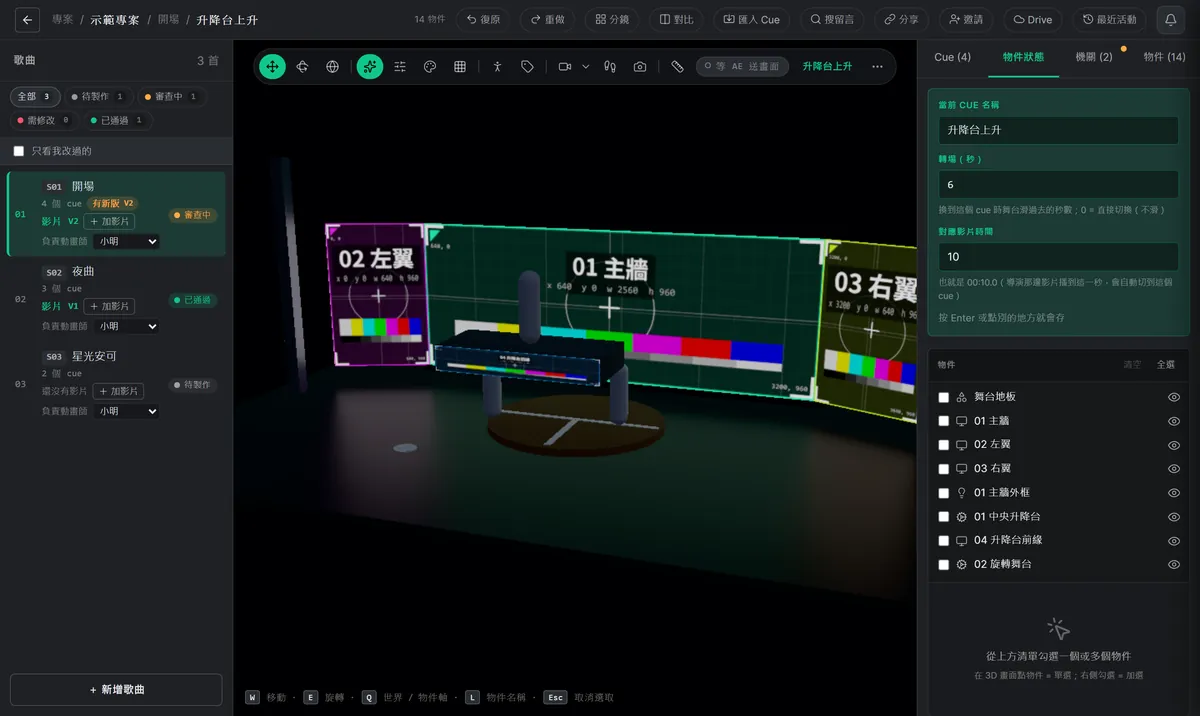
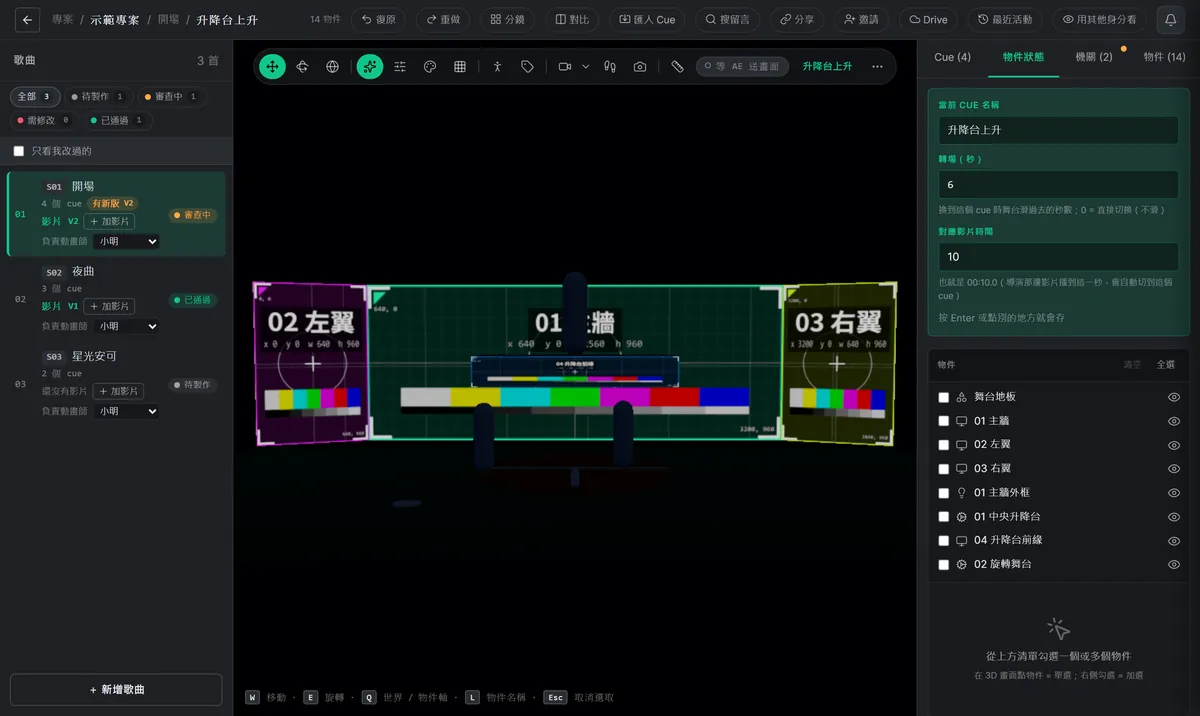
docs(使用說明): 製作「建立專案」改寫成新增專案的六個步驟（名稱、3D 模型、LED 畫布大小、歌單、邀請人、完成），加「每一步都可以先跳過」、中途離開和「繼續設定」的說明，4 張新截圖；重拍過時的圖：cue 清單（按鈕已經收進每一列最右邊的「⋯」，紅框改成 ⋯ 選單裡的存成常用擺位、重置）、編輯頁全景（上方多了「用其他身分看」，復原 / 重做的紅框跟著移）、舊的新增專案視窗（寫的是不存在的「模型」分頁）

Changed region(s): [[0.185, 0.2765, 0.7708, 0.7989], [0.3083, 0.0, 0.9558, 0.0307]]

diff --git a/web/src/pages/helpFigures.ts b/web/src/pages/helpFigures.ts
@@ -69,12 +69,43 @@ export const FIGS = {
     ],
   }),
   newProject: fig({
-    src: '/help/producer/new-project.webp', w: 960, h: 1204, width: 420,
-    alt: '新增專案對話框',
-    caption: '① 專案名稱（一定要填）② 按「建立專案」',
+    src: '/help/producer/new-project.webp', w: 1000, h: 1026, width: 440,
+    alt: '新增專案第 1 步：專案名稱、Show、描述',
+    caption: '第 1 步：① 專案名稱（一定要填）② 按「建立專案」，專案就建好了 ③ 最上面看得到在第幾步',
     boxes: [
-      { x: 4.17, y: 18.09, w: 91.67, h: 8.01, n: 1 },
-      { x: 76.25, y: 89.13, w: 19.58, h: 7.55, n: 2 },
+      { x: 2.63, y: 25.68, w: 94.74, h: 6.19, n: 1 },
+      { x: 82.63, y: 93.08, w: 15, h: 5.64, n: 2 },
+      { x: 2.37, y: 9.1, w: 95.26, h: 5.38, n: 3, dashed: true },
+    ],
+  }),
+  newProjectModel: fig({
+    src: '/help/producer/new-project-model.webp', w: 1000, h: 1026, width: 440,
+    alt: '新增專案第 2 步：模型匯入後寫找到幾片 LED、幾個機關',
+    caption: '第 2 步：① 模型裡找到什麼 ② 物件怎麼命名（開新分頁看說明）③ 下一步',
+    boxes: [
+      { x: 4.74, y: 29.01, w: 90.53, h: 3.72, n: 1 },
+      { x: 2.63, y: 22.67, w: 30.79, h: 3.27, n: 2, dashed: true },
+      { x: 84.34, y: 92.98, w: 13.29, h: 5.64, n: 3 },
+    ],
+  }),
+  newProjectSongs: fig({
+    src: '/help/producer/new-project-songs.webp', w: 1000, h: 1026, width: 440,
+    alt: '新增專案第 4 步：貼上歌單，下面列出每首歌的歌曲代號和歌名',
+    caption: '第 4 步：① 一行一首貼進來 ② 歌曲代號照順序排好，可以改 ③ 按「加入 3 首歌」',
+    boxes: [
+      { x: 2.63, y: 28.53, w: 94.74, h: 23.68, n: 1 },
+      { x: 2.63, y: 56.57, w: 12.89, h: 16.83, n: 2 },
+      { x: 83.3, y: 92.98, w: 14.34, h: 5.64, n: 3 },
+    ],
+  }),
+  newProjectDone: fig({
+    src: '/help/producer/new-project-done.webp', w: 1000, h: 1026, width: 440,
+    alt: '新增專案最後一步：做好了什麼、還沒做什麼',
+    caption: '完成：① 還沒做的可以回去設定 ② 進入編輯頁 ③ 建立分享連結、用其他身分看',
+    boxes: [
+      { x: 84.61, y: 57.6, w: 10.79, h: 4.97, n: 1 },
+      { x: 2.63, y: 66.05, w: 17.89, h: 6.54, n: 2 },
+      { x: 20.79, y: 66.4, w: 37.63, h: 5.83, n: 3 },
     ],
   }),
   projectCardMenu: fig({
@@ -90,7 +121,7 @@ export const FIGS = {
       { x: 0, y: 5.58, w: 19.44, h: 94.42, n: 1, dashed: true },
       { x: 20.96, y: 6.51, w: 53.9, h: 5.58, n: 2 },
       { x: 76.39, y: 5.58, w: 23.61, h: 94.42, n: 3, dashed: true },
-      { x: 37.76, y: 0.64, w: 10.34, h: 4.19, n: 4 },
+      { x: 29.06, y: 0.64, w: 10.33, h: 4.19, n: 4 },
     ],
   }),
   uploadModel: fig({
@@ -147,13 +178,14 @@ export const FIGS = {
     boxes: [{ x: 2.5, y: 52.86, w: 95, h: 7.26, n: 1 }],
   }),
   cueList: fig({
-    src: '/help/producer/cue-list.webp', w: 680, h: 706, width: 340,
-    alt: 'Cue 分頁：cue 清單，滑鼠移到 cue 上出現的按鈕',
-    caption: '① 轉場秒數（0 寫「直接切換」）② 存成常用擺位 ③ 重置這個 cue',
+    src: '/help/producer/cue-list.webp', w: 680, h: 960, width: 340,
+    alt: 'Cue 分頁：cue 清單，第 2 個 cue 最右邊的「⋯」打開的選單',
+    caption: '① 轉場秒數（0 寫「直接切換」）② 每個 cue 最右邊的「⋯」③ 存成常用擺位 ④ 重置這個 cue',
     boxes: [
-      { x: 14.41, y: 39.42, w: 29.71, h: 5.8, n: 1 },
-      { x: 67.06, y: 35.6, w: 7.65, h: 7.36, n: 2 },
-      { x: 74.12, y: 35.6, w: 7.65, h: 7.36, n: 3 },
+      { x: 14.41, y: 29.01, w: 16.5, h: 4.27, n: 1 },
+      { x: 87.65, y: 25.78, w: 8.82, h: 6.25, n: 2 },
+      { x: 17.06, y: 61.04, w: 77.05, h: 8.75, n: 3 },
+      { x: 17.06, y: 77.71, w: 77.05, h: 8.75, n: 4 },
     ],
   }),
   cueAdd: fig({

diff --git a/web/src/pages/Help.tsx b/web/src/pages/Help.tsx
@@ -972,15 +972,28 @@ function ProducerChapter() {
 
       <Section id={A.prodProject} title="建立專案">
         <F k="adminOverview" />
+        <p>左邊選「<Ui>專案</Ui>」（專案總覽），按右上角「<Ui>＋ 新增專案</Ui>」。接下來會一步一步帶你把專案準備好，最上面看得到在第幾步：</p>
         <ol className="help-steps">
-          <li>左邊選「<Ui>專案</Ui>」（專案總覽），按右上角「<Ui>＋ 新增專案</Ui>」。</li>
-          <li>填「<Ui>專案名稱</Ui>」（例：魅影巡演 2026），需要的話寫一句描述。同一場巡迴的不同場次可以選同一個「<Ui>Show</Ui>」。</li>
-          <li>按「<Ui>建立專案</Ui>」，直接進到這個專案的編輯頁。</li>
+          <li><strong>名稱</strong>：填「<Ui>專案名稱</Ui>」（例：魅影巡演 2026），同一場巡迴的不同場次可以選同一個「<Ui>Show</Ui>」，需要的話寫一句描述 → 按「<Ui>建立專案</Ui>」。按下去專案就建好了。</li>
+          <li><strong>3D 模型</strong>：按「<Ui>上傳 3D 模型</Ui>」（跟編輯頁的上傳視窗一樣，看 <Go to={A.prodModel}>匯入 3D 模型</Go>）。匯入後寫「找到 4 片 LED、2 個機關…」；名稱沒對到命名規則的會提醒你（看 <Go to={A.prodNaming}>物件怎麼命名</Go>）。</li>
+          <li><strong>LED 畫布大小</strong>：AE 合成的寬 × 高（像素），先放常用的 3840 × 2160。有模型的話下面會畫出每塊 LED 在畫布上的位置（跟 <Go to={A.prodLedCanvas}>LED 對位圖</Go> 一樣）。</li>
+          <li><strong>歌單</strong>：把歌單貼進來，一行一首。前面的編號（「1. 開場」）會拿掉、空行跳過、重複的只留一首；寫了「S01 開場」就用 S01 當歌曲代號，沒寫的照順序排 S01、S02…。下面的表格裡代號、歌名都可以改；專案裡已經有動畫師的話，可以先選負責動畫師 → 按「<Ui>加入 N 首歌</Ui>」。</li>
+          <li><strong>邀請人</strong>：建邀請連結給動畫師、導演，按「<Ui>複製訊息</Ui>」貼到 LINE / 微信（看 <Go to={A.prodInvite}>邀請連結</Go>）。</li>
+          <li><strong>完成</strong>：列出做好了什麼、還沒做什麼。按「<Ui>進入編輯頁</Ui>」繼續排 cue；也可以直接「<Ui>建立分享連結</Ui>」或「<Ui>用其他身分看</Ui>」。</li>
         </ol>
         <FigRow>
           <F k="newProject" />
-          <F k="projectCardMenu" />
+          <F k="newProjectModel" />
         </FigRow>
+        <FigRow>
+          <F k="newProjectSongs" />
+          <F k="newProjectDone" />
+        </FigRow>
+        <Note title="每一步都可以先跳過">
+          <p>除了名稱，每一步都可以按「<Ui>先跳過</Ui>」，之後在編輯頁做。按「<Ui>上一步</Ui>」或瀏覽器、手機的返回鍵回到上一步；最上面的步驟也可以直接點。</p>
+          <p>中途按右上角的叉叉或 Esc 離開也沒關係：做好的都已經存在專案上。專案總覽上面會寫「還沒設定完」，按「<Ui>繼續設定</Ui>」從還沒做的那一步接著做。</p>
+        </Note>
+        <F k="projectCardMenu" />
         <p>專案卡片右上角的「<Ui>⋯</Ui>」：</p>
         <ul className="help-list">
           <li><strong>複製專案</strong>：開新場次最快。會帶過去：模型（共用同一份，不用重新上傳）、物件、歌曲（代號、狀態、負責動畫師）、cue 和每個 cue 的位置、機關。<strong>不會</strong>帶過去：影片版本、留言、審片紀錄、成員和分享連結，新專案要再邀請導演和動畫師。</li>
